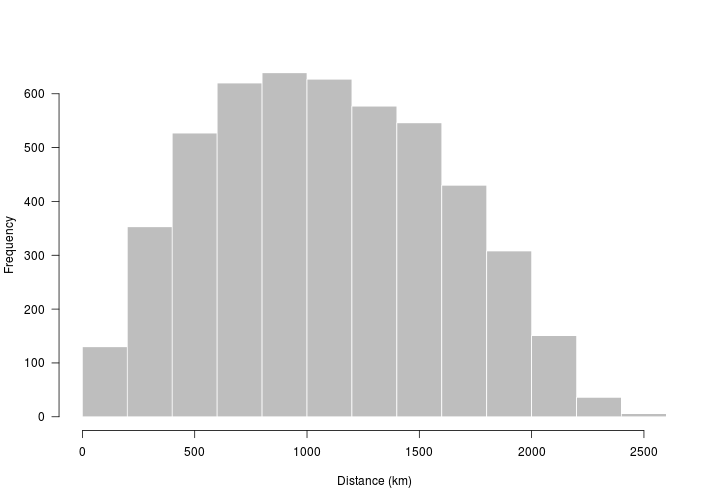
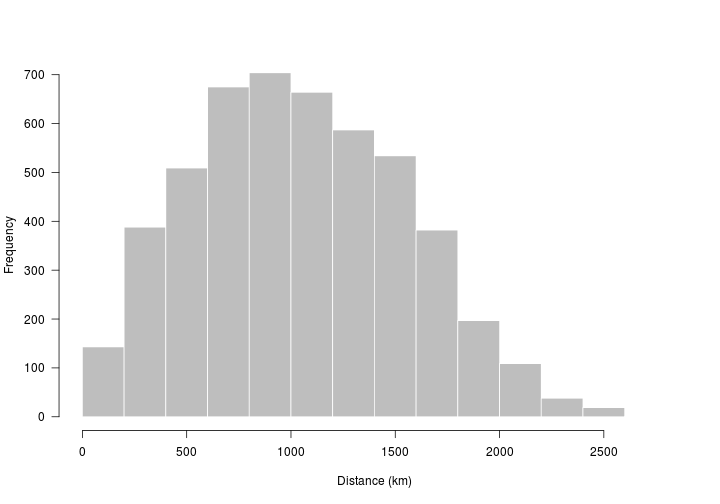
Deploy mhallwor/mhallwor.github.io to github.com/mhallwor/mhallwor.github.io.git:master

diff --git a/_pages/basics_SpatialPoints.md b/_pages/basics_SpatialPoints.md
@@ -51,7 +51,7 @@ If installing these packages for the first time consider adding <code>dependenci
         
 <br>
 
-<a href="https://raw.githubusercontent.com/mhallwor/mhallwor.github.io/develop/Rscripts/basics_SpatialPoints.R" target="_blank" class="btn btn--info">Download R script</a> Last modified: 2019-09-06 17:16:21
+<a href="https://raw.githubusercontent.com/mhallwor/mhallwor.github.io/develop/Rscripts/basics_SpatialPoints.R" target="_blank" class="btn btn--info">Download R script</a> Last modified: 2019-09-06 18:49:22
 
 <hr>
 
@@ -85,12 +85,12 @@ head(cbind(x_coords,y_coords))
 
 ```
 ##       x_coords y_coords
-## [1,] -90.08226 25.45349
-## [2,] -99.15085 29.59148
-## [3,] -81.73743 32.43984
-## [4,] -94.20972 38.55679
-## [5,] -85.93133 30.97094
-## [6,] -86.11826 30.04308
+## [1,] -96.62782 34.29853
+## [2,] -86.33907 33.74694
+## [3,] -85.01800 31.13051
+## [4,] -89.13958 29.93506
+## [5,] -97.81673 32.52407
+## [6,] -96.64358 38.66630
 ```
 
 Now that we have generated random coordinates we can make those data spatially explicit. We'll use the `SpatialPoints` function in the `sp` package to do that. Before we use the function let's see what arguments we need to pass to `SpatialPoints`.
@@ -124,11 +124,11 @@ str(firstPoints)
 
 ```
 ## Formal class 'SpatialPoints' [package "sp"] with 3 slots
-##   ..@ coords     : num [1:100, 1:2] -90.1 -99.2 -81.7 -94.2 -85.9 ...
+##   ..@ coords     : num [1:100, 1:2] -96.6 -86.3 -85 -89.1 -97.8 ...
 ##   .. ..- attr(*, "dimnames")=List of 2
 ##   .. .. ..$ : NULL
 ##   .. .. ..$ : chr [1:2] "x_coords" "y_coords"
-##   ..@ bbox       : num [1:2, 1:2] -99.6 25.1 -80 44.9
+##   ..@ bbox       : num [1:2, 1:2] -100 25 -80.1 45
 ##   .. ..- attr(*, "dimnames")=List of 2
 ##   .. .. ..$ : chr [1:2] "x_coords" "y_coords"
 ##   .. .. ..$ : chr [1:2] "min" "max"
@@ -166,7 +166,7 @@ euclidDist <- sp::spDists(firstPoints,longlat = FALSE)
 ```
 
 ```
-##  num [1:100, 1:100] 0 9.97 10.88 13.74 6.9 ...
+##  num [1:100, 1:100] 0 10.3 12.03 8.67 2.14 ...
 ```
 
 Another option is to calculate the GreatCircle distance. 
@@ -178,7 +178,7 @@ gcDist <- sp::spDists(firstPoints,longlat = TRUE)
 
 
 ```
-##  num [1:100, 1:100] 0 1006 1122 1504 735 ...
+##  num [1:100, 1:100] 0 952 1143 856 226 ...
 ```
 
 ![plot of chunk unnamed-chunk-5](/figure/pages/basics_SpatialPoints/unnamed-chunk-5-1.png)

diff --git a/_pages/basics_SpatialLines.md b/_pages/basics_SpatialLines.md
@@ -53,7 +53,7 @@ If installing these packages for the first time consider adding <code>dependenci
         
 <br>
 
-<a href="https://raw.githubusercontent.com/mhallwor/mhallwor.github.io/develop/Rscripts/basics_SpatialLines.R" target="_blank" class="btn btn--info">Download R script</a> Last modified: 2019-09-06 17:16:21
+<a href="https://raw.githubusercontent.com/mhallwor/mhallwor.github.io/develop/Rscripts/basics_SpatialLines.R" target="_blank" class="btn btn--info">Download R script</a> Last modified: 2019-09-06 18:49:22
 
 <hr>
 
@@ -81,12 +81,12 @@ ID <- paste0("line_",1:100)
 
 ```
 ##    x_coords y_coords     ID
-## 1 -94.34031 29.75704 line_1
-## 2 -89.93553 28.08729 line_2
-## 3 -85.94197 36.25755 line_3
-## 4 -82.07746 34.19026 line_4
-## 5 -85.23374 41.18741 line_5
-## 6 -92.80367 41.70876 line_6
+## 1 -97.62565 37.62132 line_1
+## 2 -80.02266 42.46848 line_2
+## 3 -86.41110 41.55089 line_3
+## 4 -83.78169 39.67623 line_4
+## 5 -90.30912 34.40001 line_5
+## 6 -91.27978 36.79996 line_6
 ```
 
 Now that we have the endpoints, we need to create a <code>Line</code> object then convert that to a <code>Lines</code> object and give them an ID then we can finally convert them to <code>SpatialLines</code>. Here, we'll use the first two points for our first line.
@@ -116,7 +116,7 @@ sp_line <- as(points,"SpatialLines")
 ```
 ## class       : SpatialLines 
 ## features    : 1 
-## extent      : -99.92255, -80.00981, 25.30927, 44.9734  (xmin, xmax, ymin, ymax)
+## extent      : -99.77334, -80.02266, 25.00572, 44.88346  (xmin, xmax, ymin, ymax)
 ## crs         : NA
 ```
 
@@ -141,7 +141,7 @@ rgeos::gLength(sp_line)
 ```
 
 ```
-## [1] 1008.786
+## [1] 1040.025
 ```
 
 Another option is to return the great circle distance. The following code calculates the great circle distance along a line and returns the distance in meters. 
@@ -152,7 +152,7 @@ geosphere::lengthLine(sp_line)
 ```
 
 ```
-## [1] 101577656
+## [1] 104684037
 ```
 
 <div style="background-color: #ffffe6; border-radius: 25px; text-align:center; vertical-align: middle; padding: 3px 0; margin: auto; width:600px; box-shadow: 4px 5px #f2f2f2;"> 

diff --git a/_pages/R_basics.md b/_pages/R_basics.md
@@ -518,8 +518,8 @@ str(list.data)
 ##  $ id       : int [1:5] 1 2 3 4 5
 ##  $ names    : chr [1:2] "Dr. Seuss" "Cat in the hat"
 ##  $ DataFrame:'data.frame':	10 obs. of  2 variables:
-##   ..$ starttimes: num [1:10] -0.373 1.091 0.935 -1.294 -0.34 ...
-##   ..$ endtimes  : num [1:10] 26.7 24.6 22.1 23 29.7 ...
+##   ..$ starttimes: num [1:10] -2.369 0.331 1.19 0.076 0.07 ...
+##   ..$ endtimes  : num [1:10] 20.7 20.2 27.8 28.1 20.2 ...
 ```
 
 ```r
@@ -534,17 +534,17 @@ list.data
 ## [1] "Dr. Seuss"      "Cat in the hat"
 ## 
 ## $DataFrame
-##    starttimes endtimes
-## 1  -0.3729960 26.67917
-## 2   1.0909415 24.56870
-## 3   0.9349029 22.07960
-## 4  -1.2937402 22.95577
-## 5  -0.3399110 29.67247
-## 6   0.9968007 21.22484
-## 7   0.7887841 27.35752
-## 8  -1.7785085 24.23557
-## 9   0.1831431 27.14514
-## 10 -0.1461799 23.53201
+##     starttimes endtimes
+## 1  -2.36945683 20.66022
+## 2   0.33065552 20.20097
+## 3   1.19047559 27.78713
+## 4   0.07601010 28.11513
+## 5   0.07000428 20.18921
+## 6  -0.53598089 25.55918
+## 7   0.52672368 20.18900
+## 8   0.60610423 28.26350
+## 9  -0.01512991 24.61420
+## 10 -0.93893253 27.66609
 ```
 Accessing data stored within lists can be a little tricky.    
 Here is an example of how to extract the 5th element of starttime in the DataFrame object in our list.data object. 
@@ -554,7 +554,7 @@ list.data[[3]][5,1]
 ```
 
 ```
-## [1] -0.339911
+## [1] 0.07000428
 ```
 
 ```r
@@ -562,7 +562,7 @@ list.data[[3]]$starttime[5]
 ```
 
 ```
-## [1] -0.339911
+## [1] 0.07000428
 ```
 
 ```r
@@ -570,9 +570,9 @@ list.data$DataFrame$starttime[5]
 ```
 
 ```
-## [1] -0.339911
+## [1] 0.07000428
 ```
 
 <a href="#TOP">back to top</a>
 
-<a href="https://raw.githubusercontent.com/mhallwor/mhallwor.github.io/develop/Rscripts/R_basics.R" target="_blank" class="btn btn--info">Download R script</a> Last modified: 2019-09-06 17:16:21
+<a href="https://raw.githubusercontent.com/mhallwor/mhallwor.github.io/develop/Rscripts/R_basics.R" target="_blank" class="btn btn--info">Download R script</a> Last modified: 2019-09-06 18:49:22

diff --git a/_pages/advanced_Rasters.md b/_pages/advanced_Rasters.md
@@ -394,7 +394,7 @@ You may notice that some values are -Inf or Inf. We'll ignore that for now becau
 ## resolution : 231.6564, 231.6564  (x, y)
 ## extent     : -11119505, -10007555, 3335852, 4447802  (xmin, xmax, ymin, ymax)
 ## crs        : +proj=sinu +lon_0=0 +x_0=0 +y_0=0 +a=6371007.181 +b=6371007.181 +units=m +no_defs 
-## source     : /tmp/Rtmp67uytx/raster/r_tmp_2019-09-06_172846_20218_42973.grd 
+## source     : /tmp/Rtmpo1klcg/raster/r_tmp_2019-09-06_185908_20282_40235.grd 
 ## names      : layer 
 ## values     : -201, 201  (min, max)
 ```
@@ -428,7 +428,7 @@ Sys.time()-a
 ```
 
 ```
-## Time difference of 29.79419 secs
+## Time difference of 28.1746 secs
 ```
 NDVI values should range in the values between -1 and 1. Let's make sure that's the case by setting the upper and lower values manually.
 
@@ -460,7 +460,7 @@ diff_ndvi <- NDVI_2017-NDVI_2000
 ## resolution : 231.6564, 231.6564  (x, y)
 ## extent     : -11119505, -8895604, 3335852, 4447802  (xmin, xmax, ymin, ymax)
 ## crs        : +proj=sinu +lon_0=0 +x_0=0 +y_0=0 +a=6371007.181 +b=6371007.181 +units=m +no_defs 
-## source     : /tmp/Rtmp67uytx/raster/r_tmp_2019-09-06_173123_20218_13529.grd 
+## source     : /tmp/Rtmpo1klcg/raster/r_tmp_2019-09-06_190138_20282_19501.grd 
 ## names      : layer 
 ## values     : -2, 2  (min, max)
 ```
@@ -542,4 +542,4 @@ plotRGB(ndvi_brick)
 <a href="#TOP">Back to top</a>
 
 
-<a href="https://raw.githubusercontent.com/mhallwor/mhallwor.github.io/develop/Rscripts/advanced_Rasters.R" target="_blank" class="btn btn--info">Download R script</a> Last modified: 2019-09-06 17:16:21
+<a href="https://raw.githubusercontent.com/mhallwor/mhallwor.github.io/develop/Rscripts/advanced_Rasters.R" target="_blank" class="btn btn--info">Download R script</a> Last modified: 2019-09-06 18:49:22

diff --git a/_pages/projections.md b/_pages/projections.md
@@ -56,7 +56,7 @@ If installing these packages for the first time consider adding <code>dependenci
 <br>
 <hr> 
 
-<a href="https://raw.githubusercontent.com/mhallwor/mhallwor.github.io/master/Rscripts/projections.R" target="_blank" class="btn btn--info">Download R script</a> Last modified: 2019-09-06 17:16:21
+<a href="https://raw.githubusercontent.com/mhallwor/mhallwor.github.io/master/Rscripts/projections.R" target="_blank" class="btn btn--info">Download R script</a> Last modified: 2019-09-06 18:49:22
 
 # Projections
 The reason we need projections is so that we can map a three dimensional surface - like the earth in two dimensional space. Unfortunately, not all properties of the 3D surface are maintained when plotting in 2D space. Attributes of the 3D surface such as area, distance, shape and direction are distorted when creating a 2D map. Projections define the way we distort the 3D surface in order to render it in 2D. The projection is the mathmatical equation used to 'flatten' the world. Every time we create a map we distort the true surface in some fashion. Different projections preserve different aspects of the 3D properties. Therefore, knowing which projections to use is important when doing spatial analyses. For example, if you're looking to create a map that looks 'correct' a conformal projection might be used as these types of projections preserve shape. If you're looking to make accurate distance measurements on a surface projections in the equidistant class are appropriate. Take a look at this <a href = "http://projections.mgis.psu.edu/" target="_blank">interactive map</a> that shows different projections - be sure to turn on the distortion ellipse so you can see how distortion changes. 

diff --git a/website/CV.md b/website/CV.md
@@ -29,9 +29,8 @@ Last updated: 2019-09-06
 **2014-2015** _Postdoctoral research associate_ - University of Maryland, Baltimore County, Baltimore, MD.						                    Geography & Environmental Systems
 
 <br>
- 
-  <div style="float: left; width: 60%">
-  
+<div style="display: table; width: 100%; clear: both">
+<div style="float: left; width: 60%">
   <h2><b>Education</b></h2>
   <p style="text-indent: -2em; margin-left: 3em; font-size: 12pt"><b>Ph.D.</b>, Environmental Science and Public Policy, 2014.
 George Mason University, Fairfax, VA.<br>Advisors: Dr. Peter P. Marra & Dr. Larry Rockwood</p>
@@ -43,12 +42,11 @@ Plymouth State University, Plymouth, NH.<br>Advisor: Dr. Leonard Reitsma</p>
 Plymouth State University, Plymouth, NH.<br>Minor: Chemistry</p>    
   </div>
   
-  <div style="float: left; width: 40%; background-color: #f0f0f5;
+<div style="float: left; width: 40%; background-color: #f0f0f5;
               border: 2px solid black; border-radius: 8px;
               text-align: center;
               box-shadow: 5px 5px #888888;
               font-size: 12pt">
-  <br>
   <h2><b>Career Highlights</b></h2>
 <p><b>24</b> peer-reviewed publications<br>
      <b>h-index</b> = 10 <br>
@@ -57,8 +55,8 @@ Plymouth State University, Plymouth, NH.<br>Minor: Chemistry</p>
 
 Over <b>$305,000</b> in competitive grants <br>
 <b>Best Dissertation Award</b>, 2014-2015</p>
-<br>
-  </div>
+</div>
+</div>
 
 <br>
 <br>

diff --git a/_pages/activities_ExtractRasterValues.md b/_pages/activities_ExtractRasterValues.md
@@ -64,7 +64,7 @@ If installing these packages for the first time consider adding <code>dependenci
 </div>
         
 <br>
-<a href="https://raw.githubusercontent.com/mhallwor/mhallwor.github.io/develop/Rscripts/activities_ExtractRasterValues.R" target="_blank" class="btn btn--info">Download R script</a> Last modified: 2019-09-06 17:16:21
+<a href="https://raw.githubusercontent.com/mhallwor/mhallwor.github.io/develop/Rscripts/activities_ExtractRasterValues.R" target="_blank" class="btn btn--info">Download R script</a> Last modified: 2019-09-06 18:49:22
 <hr>
 
 
@@ -278,7 +278,7 @@ Sys.time()-a
 ```
 
 ```
-## Time difference of 2.450117 mins
+## Time difference of 2.390497 mins
 ```
 
 ```r
@@ -291,7 +291,7 @@ Sys.time() - b
 ```
 
 ```
-## Time difference of 21.70207 secs
+## Time difference of 25.51182 secs
 ```
  
 <div style="background-color: #ffffe6; border-radius: 25px; text-align:center; vertical-align: middle; padding: 3px 0; margin: auto; width:600px; box-shadow: 4px 5px #f2f2f2;"> 

diff --git a/_pages/spatial_predicates.md b/_pages/spatial_predicates.md
@@ -57,7 +57,7 @@ If installing these packages for the first time consider adding <code>dependenci
         
 <br>
 
-<a href="https://raw.githubusercontent.com/mhallwor/mhallwor.github.io/develop/Rscripts/spatial_predicates.R" target="_blank" class="btn btn--info">Download R script</a> Last modified: 2019-09-06 17:16:21
+<a href="https://raw.githubusercontent.com/mhallwor/mhallwor.github.io/develop/Rscripts/spatial_predicates.R" target="_blank" class="btn btn--info">Download R script</a> Last modified: 2019-09-06 18:49:22
 
 <hr> 
 
@@ -200,7 +200,7 @@ Sys.time()-a
 ```
 
 ```
-## Time difference of 6.514446 secs
+## Time difference of 6.067015 secs
 ```
 
 ```r
@@ -212,7 +212,7 @@ Sys.time()-a
 ```
 
 ```
-## Time difference of 7.998455 secs
+## Time difference of 7.601097 secs
 ```
 
 ![plot of chunk unnamed-chunk-12](/figure/pages/spatial_predicates/unnamed-chunk-12-1.png)

diff --git a/_pages/Tidyverse_intro.md b/_pages/Tidyverse_intro.md
@@ -37,7 +37,7 @@ If installing these packages for the first time consider adding <code>dependenci
 <br>
 This activity will integrate spatial data with the tidyverse. See <a href = "{{ site.baseurl }}/_pages/tidyverse_basics" target="_blank">introduction to the tidyverse</a> for more information on the tidyverse.
 
-<a href="https://raw.githubusercontent.com/mhallwor/mhallwor.github.io/develop/Rscripts/Tidyverse_intro.R" target="_blank" class="btn btn--info">Download R script</a> Last modified: 2019-09-06 17:16:21
+<a href="https://raw.githubusercontent.com/mhallwor/mhallwor.github.io/develop/Rscripts/Tidyverse_intro.R" target="_blank" class="btn btn--info">Download R script</a> Last modified: 2019-09-06 18:49:22
 
 ## The tidyverse and spatial data
 

diff --git a/_pages/01_getting_started.md b/_pages/01_getting_started.md
@@ -114,4 +114,4 @@ Running Windows and interested in MODIS data? You will need <strong>OSGeo4W</str
 
 *Setup instructions are based on a very helpful [post by Nick Eubank](http://www.nickeubank.com/wp-content/uploads/2015/10/RGIS1_SpatialDataTypes_part0_setup.html)*
 
-<a href="https://raw.githubusercontent.com/mhallwor/mhallwor.github.io/develop/Rscripts/getting_started.R" target="_blank" class="btn btn--info">Download R script</a> Last modified: 2019-09-06 17:16:21
+<a href="https://raw.githubusercontent.com/mhallwor/mhallwor.github.io/develop/Rscripts/getting_started.R" target="_blank" class="btn btn--info">Download R script</a> Last modified: 2019-09-06 18:49:22

diff --git a/_pages/activities_GenerateTerritories.md b/_pages/activities_GenerateTerritories.md
@@ -58,7 +58,7 @@ If installing these packages for the first time consider adding <code>dependenci
         
 <br>
 
-<a href="https://raw.githubusercontent.com/mhallwor/mhallwor.github.io/develop/Rscripts/activities_GenerateTerritories.R" target="_blank" class="btn btn--info">Download R script</a> Last modified: 2019-09-06 17:16:21
+<a href="https://raw.githubusercontent.com/mhallwor/mhallwor.github.io/develop/Rscripts/activities_GenerateTerritories.R" target="_blank" class="btn btn--info">Download R script</a> Last modified: 2019-09-06 18:49:22
 
 <hr> 
 

diff --git a/_pages/basics_SpatialPolygons.md b/_pages/basics_SpatialPolygons.md
@@ -52,7 +52,7 @@ If installing these packages for the first time consider adding <code>dependenci
         
 <br>
 
-<a href="https://raw.githubusercontent.com/mhallwor/mhallwor.github.io/develop/Rscripts/basics_SpatialPolygons.R" target="_blank" class="btn btn--info">Download R script</a> Last modified: 2019-09-06 17:16:21
+<a href="https://raw.githubusercontent.com/mhallwor/mhallwor.github.io/develop/Rscripts/basics_SpatialPolygons.R" target="_blank" class="btn btn--info">Download R script</a> Last modified: 2019-09-06 18:49:22
 
 <hr>
 
